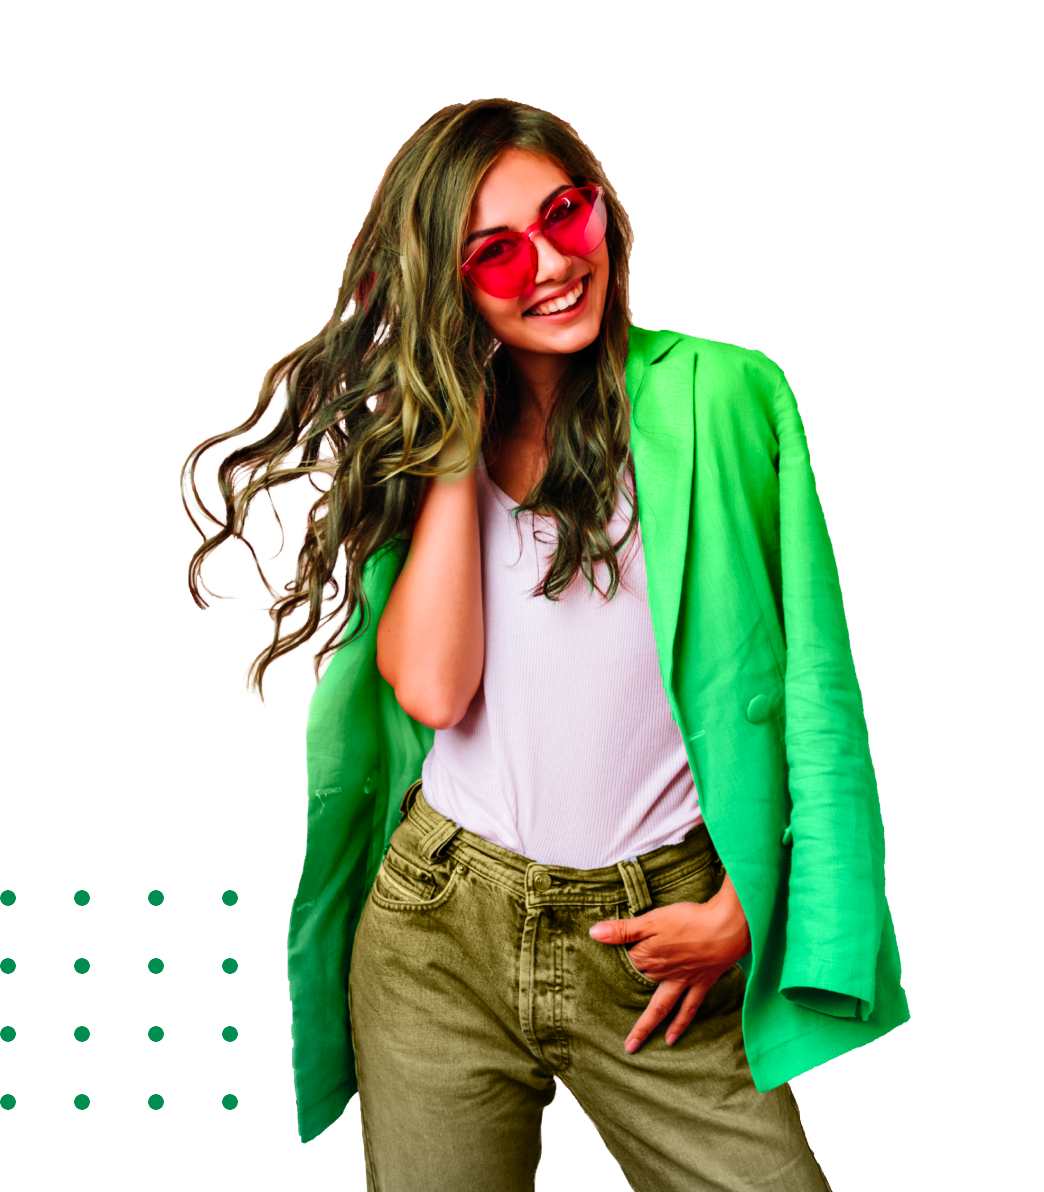
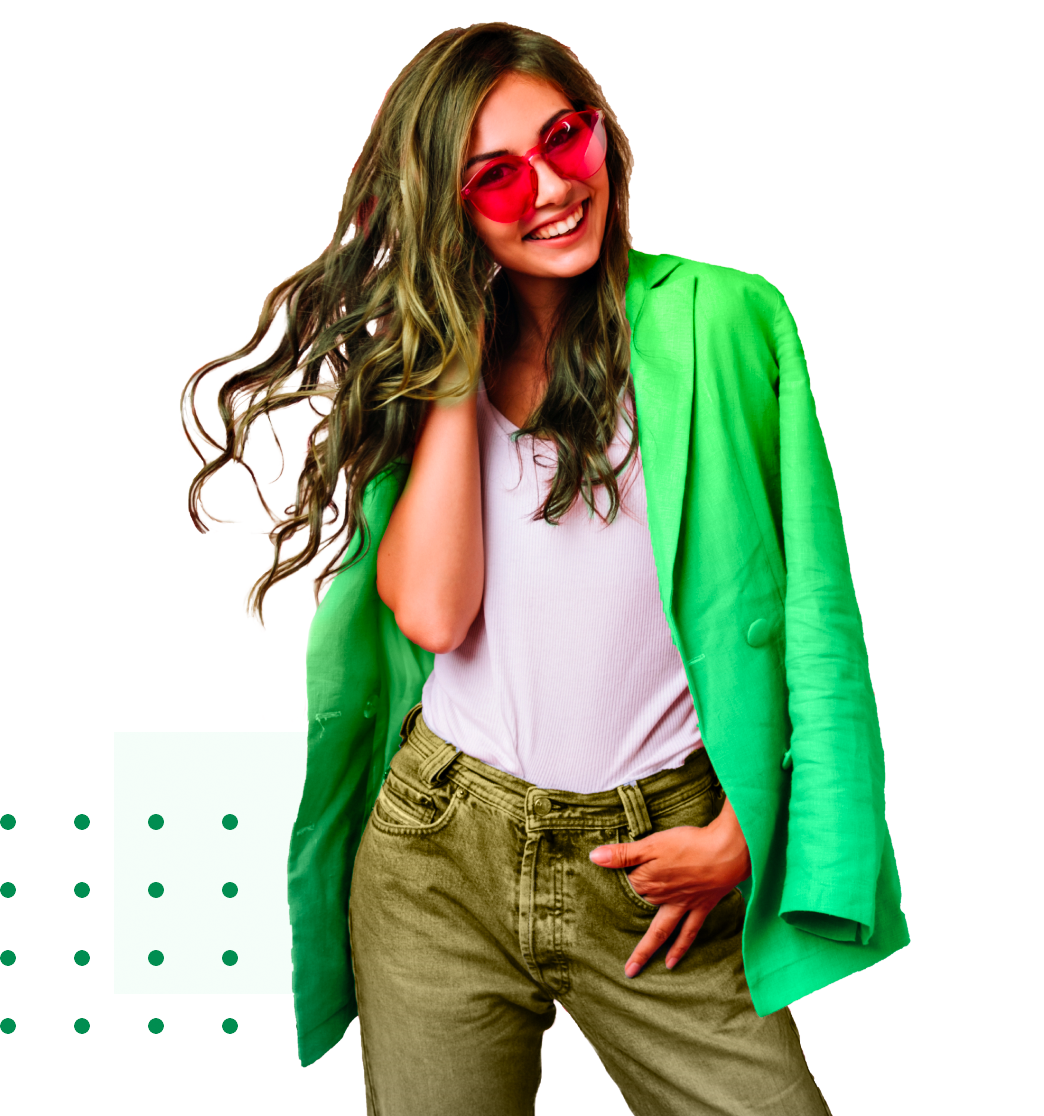
update to breakout image

diff --git a/src/app/page.tsx b/src/app/page.tsx
@@ -139,8 +139,8 @@ export default function Home() {
         <div className="bg-limeGreen w-full md:h-[596px] overflow-hidden relative">
           <Image
             src={"/breakout.png"}
-            width={482}
-            height={596}
+            width={522}
+            height={558}
             alt={"breakout"}
             className="md:absolute bottom-0 left-20"
           />

diff --git a/src/app/components/SectionHeading.tsx b/src/app/components/SectionHeading.tsx
@@ -10,7 +10,7 @@ const SectionHeading: React.FC<SectionHeadingProps> = ({
   description,
 }) => {
   return (
-    <div className="mx-auto text-center pt-20 pb-20 md:px-0 px-10">
+    <div className="mx-auto text-center pt-20 pb-10 md:px-0 px-10">
       <h1 className="section-heading mb-2">{title}</h1>
       <p className="text-darkGreen">{description}</p>
     </div>
